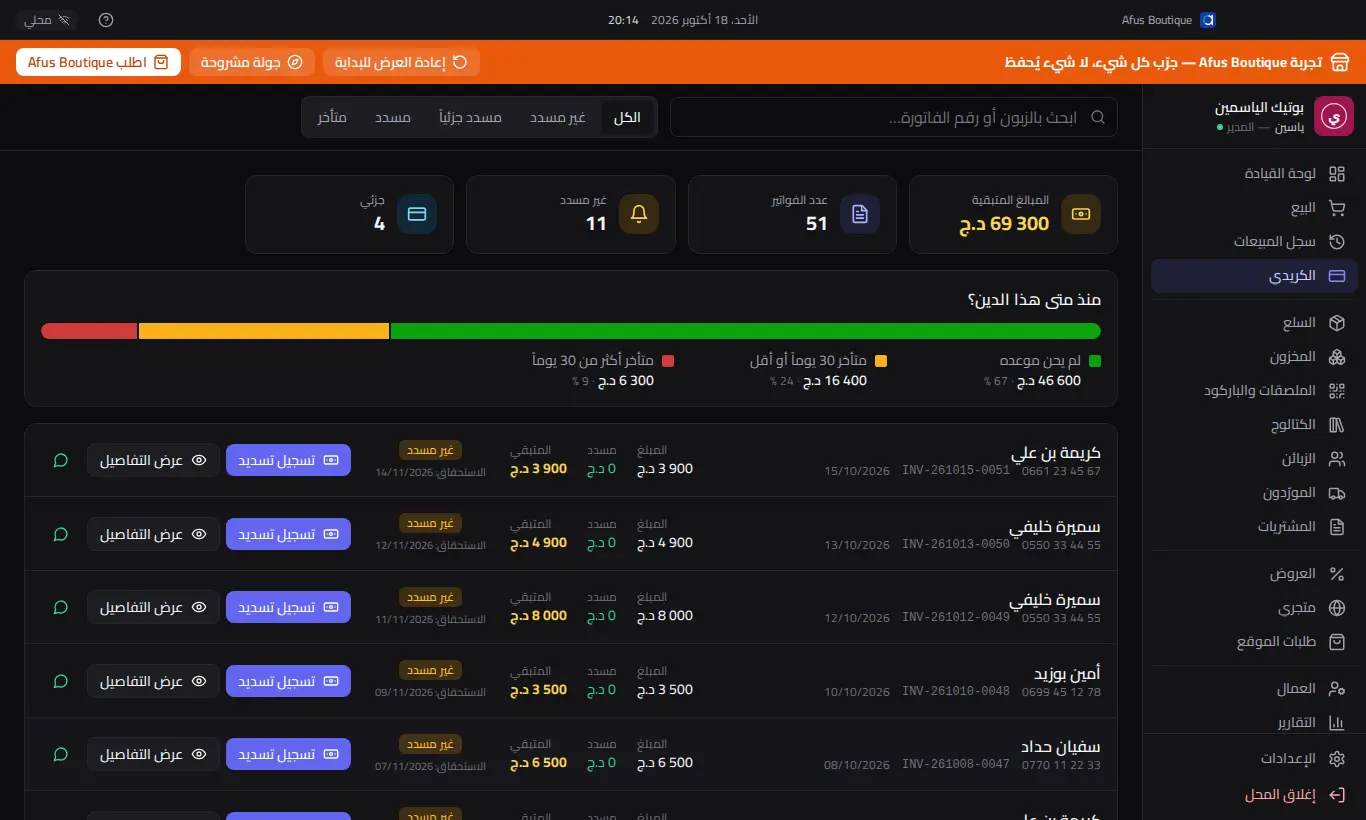
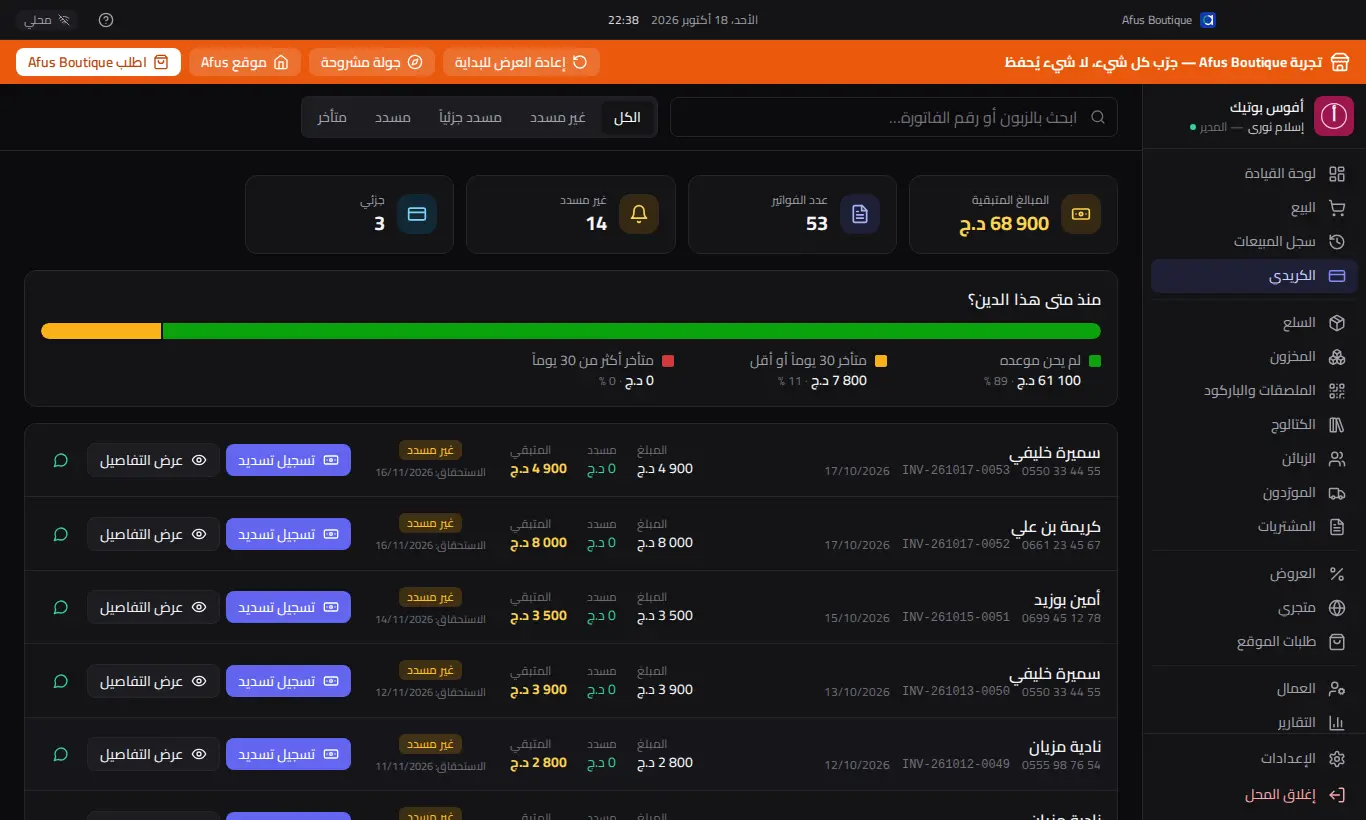
Demo shop: Afus Boutique, owned by Islam Nouri, with Soufi Yessad at the till (#24)
The demo shop is named Afus Boutique (أفوس بوتيك); its owner account is Islam
Nouri (PIN 1111) and its employee Soufi Yessad (PIN 2222), in the demo mode,
the web demo, its guided tour and the theme shops. The articles' brand that
carried the old shop name is now Tassili. Site screenshots retaken.

Claude-Session: https://claude.ai/code/session_01PWhtok4cZgEbAArsUv2vQT

diff --git a/electron/services/demoData.js b/electron/services/demoData.js
@@ -21,12 +21,12 @@ const DAYS = 90;
 
 // The demo employees: PINs shown on the demo login screen, never real ones
 const DEMO_STAFF = [
-    { id: 'demo-admin', role: 'admin', pin: '1111', name: { ar: 'ياسين', fr: 'Yacine', en: 'Yacine' } },
-    { id: 'demo-cashier', role: 'cashier', pin: '2222', name: { ar: 'لينة', fr: 'Lina', en: 'Lina' } },
+    { id: 'demo-admin', role: 'admin', pin: '1111', name: { ar: 'إسلام نوري', fr: 'Islam Nouri', en: 'Islam Nouri' } },
+    { id: 'demo-cashier', role: 'cashier', pin: '2222', name: { ar: 'سوفي يسعد', fr: 'Soufi Yessad', en: 'Soufi Yessad' } },
 ];
 
 const SHOP = {
-    name: { ar: 'بوتيك الياسمين', fr: 'Boutique Yasmine', en: 'Yasmine Boutique' },
+    name: { ar: 'أفوس بوتيك', fr: 'Afus Boutique', en: 'Afus Boutique' },
     city: { ar: 'باب الزوار', fr: 'Bab Ezzouar', en: 'Bab Ezzouar' },
 };
 
@@ -48,42 +48,42 @@ const ARTICLES = [
     ['TSB', 'tshirts', 'tshirt', 'top', 1500, 700, ['white', 'black', 'navy'], 'Casbah', 'men', 'all_year', 9, 'تيشيرت قطن أساسي', 'T-shirt coton basique', 'Basic cotton T-shirt'],
     ['TSO', 'tshirts', 'tshirt', 'top', 2200, 1000, ['black', 'grey', 'beige'], 'Casbah', 'unisex', 'summer', 6, 'تيشيرت واسع', 'T-shirt oversize', 'Oversized T-shirt'],
     ['TSP', 'tshirts', 'tshirt', 'top', 1900, 850, ['white', 'skyblue'], 'Atlas', 'men', 'summer', 4, 'تيشيرت مطبوع', 'T-shirt imprimé', 'Printed T-shirt'],
-    ['TSW', 'tshirts', 'tshirt', 'top', 1700, 750, ['pink', 'white', 'yellow'], 'Yasmine', 'women', 'summer', 5, 'تيشيرت نسائي', 'T-shirt femme', "Women's T-shirt"],
+    ['TSW', 'tshirts', 'tshirt', 'top', 1700, 750, ['pink', 'white', 'yellow'], 'Tassili', 'women', 'summer', 5, 'تيشيرت نسائي', 'T-shirt femme', "Women's T-shirt"],
     ['TSV', 'tshirts', 'tshirt', 'top', 1800, 800, ['green', 'navy'], 'Atlas', 'men', 'summer', 3, 'تيشيرت ياقة V', 'T-shirt col V', 'V-neck T-shirt'],
     ['CHL', 'shirts', 'shirt', 'top', 3900, 1900, ['white', 'skyblue', 'beige'], 'Medina', 'men', 'summer', 6, 'قميص كتان', 'Chemise en lin', 'Linen shirt'],
     ['CHO', 'shirts', 'shirt', 'top', 3500, 1700, ['blue', 'white'], 'Medina', 'men', 'all_year', 5, 'قميص أكسفورد', 'Chemise Oxford', 'Oxford shirt'],
     ['CHC', 'shirts', 'shirt', 'top', 3200, 1500, ['red', 'navy'], 'Atlas', 'men', 'winter', 3, 'قميص كاروه', 'Chemise à carreaux', 'Checked shirt'],
-    ['CHF', 'shirts', 'shirt', 'top', 4200, 2000, ['white', 'black'], 'Yasmine', 'women', 'all_year', 4, 'قميص نسائي فضفاض', 'Chemise femme fluide', "Women's flowing shirt"],
+    ['CHF', 'shirts', 'shirt', 'top', 4200, 2000, ['white', 'black'], 'Tassili', 'women', 'all_year', 4, 'قميص نسائي فضفاض', 'Chemise femme fluide', "Women's flowing shirt"],
     ['CHJ', 'shirts', 'shirt', 'top', 4500, 2200, ['blue'], 'Djurdjura', 'unisex', 'midseason', 3, 'قميص جينز', 'Chemise en jean', 'Denim shirt'],
     ['POC', 'polos', 'polo', 'top', 2800, 1300, ['navy', 'white', 'green'], 'Casbah', 'men', 'summer', 6, 'بولو كلاسيك', 'Polo classique', 'Classic polo'],
     ['POS', 'polos', 'polo', 'top', 3200, 1500, ['black', 'burgundy'], 'Atlas', 'men', 'summer', 3, 'بولو رياضي', 'Polo sport', 'Sport polo'],
     ['POL', 'polos', 'polo', 'top', 3600, 1700, ['grey', 'navy'], 'Medina', 'men', 'winter', 2, 'بولو أكمام طويلة', 'Polo manches longues', 'Long-sleeve polo'],
     ['JSL', 'jeans', 'trousers', 'jeans', 4900, 2400, ['blue', 'black'], 'Djurdjura', 'men', 'all_year', 8, 'جينز سليم', 'Jean slim', 'Slim jeans'],
     ['JDR', 'jeans', 'trousers', 'jeans', 4600, 2200, ['blue', 'navy'], 'Djurdjura', 'men', 'all_year', 6, 'جينز مستقيم', 'Jean droit', 'Straight jeans'],
-    ['JMM', 'jeans', 'trousers', 'jeans', 5200, 2500, ['skyblue', 'blue'], 'Yasmine', 'women', 'all_year', 6, 'جينز موم', 'Jean mom', 'Mom jeans'],
-    ['JLG', 'jeans', 'trousers', 'jeans', 5500, 2700, ['black', 'grey'], 'Yasmine', 'women', 'all_year', 4, 'جينز واسع', 'Jean large', 'Wide-leg jeans'],
+    ['JMM', 'jeans', 'trousers', 'jeans', 5200, 2500, ['skyblue', 'blue'], 'Tassili', 'women', 'all_year', 6, 'جينز موم', 'Jean mom', 'Mom jeans'],
+    ['JLG', 'jeans', 'trousers', 'jeans', 5500, 2700, ['black', 'grey'], 'Tassili', 'women', 'all_year', 4, 'جينز واسع', 'Jean large', 'Wide-leg jeans'],
     ['PCH', 'trousers', 'trousers', 'trousers', 3900, 1800, ['beige', 'khaki', 'navy'], 'Medina', 'men', 'all_year', 6, 'سروال شينو', 'Pantalon chino', 'Chino trousers'],
     ['PCA', 'trousers', 'trousers', 'trousers', 4200, 2000, ['khaki', 'black'], 'Atlas', 'men', 'all_year', 4, 'سروال كارغو', 'Pantalon cargo', 'Cargo trousers'],
     ['PTA', 'trousers', 'trousers', 'trousers', 4800, 2300, ['black', 'navy'], 'Medina', 'men', 'all_year', 3, 'سروال بدلة', 'Pantalon de costume', 'Suit trousers'],
-    ['PPZ', 'trousers', 'trousers', 'trousers', 3600, 1700, ['beige', 'black', 'burgundy'], 'Yasmine', 'women', 'all_year', 4, 'سروال بلازو', 'Pantalon palazzo', 'Palazzo trousers'],
+    ['PPZ', 'trousers', 'trousers', 'trousers', 3600, 1700, ['beige', 'black', 'burgundy'], 'Tassili', 'women', 'all_year', 4, 'سروال بلازو', 'Pantalon palazzo', 'Palazzo trousers'],
     ['JGB', 'trousers', 'trousers', 'top', 2900, 1300, ['grey', 'black'], 'Casbah', 'unisex', 'winter', 5, 'سروال رياضي', 'Jogging', 'Joggers'],
-    ['RET', 'dresses', 'dress', 'dress', 5800, 2700, ['yellow', 'pink', 'white'], 'Yasmine', 'women', 'summer', 5, 'فستان صيفي', "Robe d'été", 'Summer dress'],
-    ['RSO', 'dresses', 'dress', 'dress', 9500, 4500, ['burgundy', 'black', 'gold'], 'Yasmine', 'women', 'wedding', 3, 'فستان سهرة', 'Robe de soirée', 'Evening dress'],
-    ['RLO', 'dresses', 'dress', 'dress', 6900, 3200, ['green', 'beige', 'navy'], 'Yasmine', 'women', 'all_year', 4, 'فستان طويل', 'Robe longue', 'Maxi dress'],
-    ['RCH', 'dresses', 'dress', 'dress', 5200, 2400, ['skyblue', 'white'], 'Yasmine', 'women', 'midseason', 3, 'فستان قميص', 'Robe chemise', 'Shirt dress'],
+    ['RET', 'dresses', 'dress', 'dress', 5800, 2700, ['yellow', 'pink', 'white'], 'Tassili', 'women', 'summer', 5, 'فستان صيفي', "Robe d'été", 'Summer dress'],
+    ['RSO', 'dresses', 'dress', 'dress', 9500, 4500, ['burgundy', 'black', 'gold'], 'Tassili', 'women', 'wedding', 3, 'فستان سهرة', 'Robe de soirée', 'Evening dress'],
+    ['RLO', 'dresses', 'dress', 'dress', 6900, 3200, ['green', 'beige', 'navy'], 'Tassili', 'women', 'all_year', 4, 'فستان طويل', 'Robe longue', 'Maxi dress'],
+    ['RCH', 'dresses', 'dress', 'dress', 5200, 2400, ['skyblue', 'white'], 'Tassili', 'women', 'midseason', 3, 'فستان قميص', 'Robe chemise', 'Shirt dress'],
     ['ABY', 'abayas', 'dress', 'dress', 7500, 3600, ['black', 'navy', 'brown'], 'Medina', 'women', 'all_year', 5, 'عباية مطرزة', 'Abaya brodée', 'Embroidered abaya'],
     ['ABS', 'abayas', 'dress', 'dress', 6200, 2900, ['black', 'beige'], 'Medina', 'women', 'ramadan', 4, 'عباية بسيطة', 'Abaya simple', 'Plain abaya'],
-    ['JUP', 'skirts', 'skirt', 'dress', 3900, 1800, ['black', 'beige', 'burgundy'], 'Yasmine', 'women', 'all_year', 4, 'تنورة بليسيه', 'Jupe plissée', 'Pleated skirt'],
+    ['JUP', 'skirts', 'skirt', 'dress', 3900, 1800, ['black', 'beige', 'burgundy'], 'Tassili', 'women', 'all_year', 4, 'تنورة بليسيه', 'Jupe plissée', 'Pleated skirt'],
     ['JUJ', 'skirts', 'skirt', 'dress', 3500, 1600, ['blue', 'black'], 'Djurdjura', 'women', 'all_year', 3, 'تنورة جينز', 'Jupe en jean', 'Denim skirt'],
-    ['JUL', 'skirts', 'skirt', 'dress', 4400, 2100, ['khaki', 'navy'], 'Yasmine', 'women', 'winter', 2, 'تنورة طويلة', 'Jupe longue', 'Long skirt'],
+    ['JUL', 'skirts', 'skirt', 'dress', 4400, 2100, ['khaki', 'navy'], 'Tassili', 'women', 'winter', 2, 'تنورة طويلة', 'Jupe longue', 'Long skirt'],
     ['VEJ', 'jackets', 'jacket', 'top', 7900, 3800, ['blue', 'black'], 'Djurdjura', 'unisex', 'midseason', 4, 'جاكيت جينز', 'Veste en jean', 'Denim jacket'],
     ['BLZ', 'jackets', 'jacket', 'top', 9800, 4800, ['navy', 'black', 'beige'], 'Medina', 'men', 'all_year', 3, 'بليزر', 'Blazer', 'Blazer'],
     ['DOU', 'jackets', 'jacket', 'top', 12500, 6200, ['black', 'khaki', 'navy'], 'Atlas', 'unisex', 'winter', 4, 'جاكيت منفوخ', 'Doudoune', 'Puffer jacket'],
     ['MAN', 'jackets', 'jacket', 'top', 14900, 7300, ['camel', 'black'], 'Medina', 'women', 'winter', 2, 'معطف طويل', 'Manteau long', 'Long coat'],
     ['BOM', 'jackets', 'jacket', 'top', 8500, 4100, ['khaki', 'black'], 'Atlas', 'men', 'midseason', 2, 'جاكيت بومبر', 'Blouson bomber', 'Bomber jacket'],
     ['PUC', 'knitwear', 'sweater', 'top', 4500, 2100, ['beige', 'grey', 'navy'], 'Casbah', 'unisex', 'winter', 5, 'كنزة صوف', 'Pull en laine', 'Wool sweater'],
-    ['PUT', 'knitwear', 'sweater', 'top', 3900, 1800, ['black', 'cream'], 'Yasmine', 'women', 'winter', 3, 'كنزة ياقة عالية', 'Pull col roulé', 'Turtleneck sweater'],
-    ['CAR', 'knitwear', 'sweater', 'top', 4800, 2300, ['burgundy', 'camel'], 'Yasmine', 'women', 'midseason', 2, 'كارديغان', 'Cardigan', 'Cardigan'],
+    ['PUT', 'knitwear', 'sweater', 'top', 3900, 1800, ['black', 'cream'], 'Tassili', 'women', 'winter', 3, 'كنزة ياقة عالية', 'Pull col roulé', 'Turtleneck sweater'],
+    ['CAR', 'knitwear', 'sweater', 'top', 4800, 2300, ['burgundy', 'camel'], 'Tassili', 'women', 'midseason', 2, 'كارديغان', 'Cardigan', 'Cardigan'],
     ['SWC', 'hoodies', 'sweater', 'top', 3800, 1700, ['grey', 'black', 'navy'], 'Casbah', 'unisex', 'winter', 6, 'هودي بقبعة', 'Sweat à capuche', 'Hoodie'],
     ['SWR', 'hoodies', 'sweater', 'top', 3200, 1500, ['beige', 'green'], 'Casbah', 'unisex', 'midseason', 3, 'سويتشيرت', 'Sweat col rond', 'Crewneck sweatshirt'],
     ['SHO', 'shorts', 'shorts', 'top', 2200, 1000, ['beige', 'navy', 'khaki'], 'Atlas', 'men', 'summer', 4, 'شورت شينو', 'Short chino', 'Chino shorts'],
@@ -95,14 +95,14 @@ const ARTICLES = [
     ['KEN', 'kids', 'jacket', 'kids', 4900, 2300, ['navy', 'pink'], 'Mini', 'unisex', 'winter', 2, 'جاكيت أطفال', 'Blouson enfant', "Kids' jacket"],
     ['BAS', 'shoes', 'shoe', 'shoes', 6500, 3200, ['white', 'black'], 'Atlas', 'unisex', 'all_year', 6, 'حذاء رياضي', 'Baskets', 'Sneakers'],
     ['MOC', 'shoes', 'shoe', 'shoes', 7200, 3500, ['brown', 'black'], 'Medina', 'men', 'all_year', 3, 'موكاسان جلد', 'Mocassins cuir', 'Leather loafers'],
-    ['SAN', 'shoes', 'shoe', 'shoes', 3900, 1800, ['beige', 'black', 'gold'], 'Yasmine', 'women', 'summer', 4, 'صندل', 'Sandales', 'Sandals'],
-    ['BOT', 'shoes', 'shoe', 'shoes', 9900, 4800, ['black', 'camel'], 'Yasmine', 'women', 'winter', 3, 'بوت', 'Bottines', 'Ankle boots'],
-    ['ESC', 'shoes', 'shoe', 'shoes', 8500, 4200, ['black', 'burgundy'], 'Yasmine', 'women', 'wedding', 2, 'حذاء كعب', 'Escarpins', 'Heels'],
-    ['ECH', 'scarves', 'scarf', 'one', 1500, 600, ['burgundy', 'beige', 'navy', 'grey'], 'Yasmine', 'women', 'winter', 5, 'شال', 'Écharpe', 'Scarf'],
+    ['SAN', 'shoes', 'shoe', 'shoes', 3900, 1800, ['beige', 'black', 'gold'], 'Tassili', 'women', 'summer', 4, 'صندل', 'Sandales', 'Sandals'],
+    ['BOT', 'shoes', 'shoe', 'shoes', 9900, 4800, ['black', 'camel'], 'Tassili', 'women', 'winter', 3, 'بوت', 'Bottines', 'Ankle boots'],
+    ['ESC', 'shoes', 'shoe', 'shoes', 8500, 4200, ['black', 'burgundy'], 'Tassili', 'women', 'wedding', 2, 'حذاء كعب', 'Escarpins', 'Heels'],
+    ['ECH', 'scarves', 'scarf', 'one', 1500, 600, ['burgundy', 'beige', 'navy', 'grey'], 'Tassili', 'women', 'winter', 5, 'شال', 'Écharpe', 'Scarf'],
     ['HIJ', 'scarves', 'scarf', 'one', 1200, 500, ['black', 'beige', 'pink', 'skyblue', 'green'], 'Medina', 'women', 'all_year', 7, 'حجاب شيفون', 'Hijab mousseline', 'Chiffon hijab'],
     ['CEI', 'belts', 'belt', 'one', 1800, 800, ['black', 'brown'], 'Medina', 'men', 'all_year', 4, 'حزام جلد', 'Ceinture cuir', 'Leather belt'],
     ['CAS', 'caps', 'cap', 'one', 1400, 600, ['black', 'navy', 'beige'], 'Casbah', 'unisex', 'summer', 4, 'قبعة', 'Casquette', 'Cap'],
-    ['SAC', 'bags', 'bag', 'one', 4900, 2300, ['black', 'camel', 'beige'], 'Yasmine', 'women', 'all_year', 4, 'حقيبة يد', 'Sac à main', 'Handbag'],
+    ['SAC', 'bags', 'bag', 'one', 4900, 2300, ['black', 'camel', 'beige'], 'Tassili', 'women', 'all_year', 4, 'حقيبة يد', 'Sac à main', 'Handbag'],
     ['CHA', 'accessories', 'socks', 'one', 600, 250, ['black', 'white', 'grey'], 'Casbah', 'unisex', 'all_year', 6, 'جوارب (3 أزواج)', 'Chaussettes (lot de 3)', 'Socks (pack of 3)'],
     ['BON', 'caps', 'cap', 'one', 1300, 550, ['grey', 'burgundy', 'black'], 'Casbah', 'unisex', 'winter', 3, 'طاقية صوف', 'Bonnet', 'Beanie'],
 ];
@@ -305,7 +305,7 @@ function buildShop(api, { lang = 'ar', imagesDir, now = new Date(), seed = 20261
     // Shop identity and choices: the whole menu, every useful module
     const shopName = tr(SHOP.name);
     setSetting('store_config', {
-        businessName: shopName, shopLogo: writeImage('demo-logo.svg', logoSvg(lang === 'ar' ? 'ي' : 'Y')),
+        businessName: shopName, shopLogo: writeImage('demo-logo.svg', logoSvg(lang === 'ar' ? 'أ' : 'A')),
         ownerName: tr(DEMO_STAFF[0].name), businessPhone: '0555 12 34 56', businessEmail: '',
         businessAddress: lang === 'ar' ? 'شارع الاستقلال، رقم 12' : lang === 'fr' ? "12, rue de l'Indépendance" : '12 Independence Street',
         businessWilaya: '16 - Alger', businessCity: tr(SHOP.city), defaultLanguage: lang,

diff --git a/demo-web/tour.js b/demo-web/tour.js
@@ -5,7 +5,7 @@ const LANG = document.documentElement.lang === 'fr' ? 'fr' : 'ar';
 const T = (ar, fr) => (LANG === 'fr' ? fr : ar);
 
 const STEPS = [
-    { title: T('مرحبًا في محل تجريبي', 'Bienvenue dans une boutique de démo'), text: T('هذا هو البرنامج الحقيقي ببيانات محل ملابس تجريبي. اختر حساب «ياسين» (المدير) واكتب الرمز 1111، ثم اضغط «ابدأ» لفتح الصندوق.', "C'est le vrai programme, avec une boutique de vêtements d'exemple. Choisissez « Yacine » (gérant), tapez 1111, puis « Commencer » pour ouvrir la caisse.") },
+    { title: T('مرحبًا في محل تجريبي', 'Bienvenue dans une boutique de démo'), text: T('هذا هو البرنامج الحقيقي ببيانات محل ملابس تجريبي. اختر حساب «إسلام نوري» (المدير) واكتب الرمز 1111، ثم اضغط «ابدأ» لفتح الصندوق.', "C'est le vrai programme, avec une boutique de vêtements d'exemple. Choisissez « Islam Nouri » (gérant), tapez 1111, puis « Commencer » pour ouvrir la caisse.") },
     { route: '/', title: T('لوحة القيادة', 'Tableau de bord'), text: T('مبيعات اليوم والأسبوع، السلع التي ستنفد، والكريدي المتأخر: كل شيء في نظرة واحدة كل صباح.', "Ventes du jour et de la semaine, articles qui vont manquer, crédits en retard : tout d'un coup d'œil chaque matin.") },
     { route: '/pos', title: T('البيع', 'La caisse'), text: T('امسح الباركود أو اضغط على سلعة، اختر المقاس واللون ثم «تحصيل». الدفع نقدًا أو بالكريدي، والتذكرة بالعربية أو الفرنسية. جرّب بيعًا الآن!', 'Scannez ou touchez un article, choisissez taille et couleur, puis « Encaisser ». Espèces ou crédit, ticket en arabe ou en français. Essayez une vente !') },
     { route: '/products', title: T('السلع والمقاسات', 'Articles et tailles'), text: T('كل سلعة بمقاساتها وألوانها ومخزون كل مقاس ولون. إضافة سلعة جديدة تأخذ أقل من دقيقة.', 'Chaque article avec ses tailles, ses couleurs et le stock de chacune. Un nouvel article en moins d’une minute.') },
